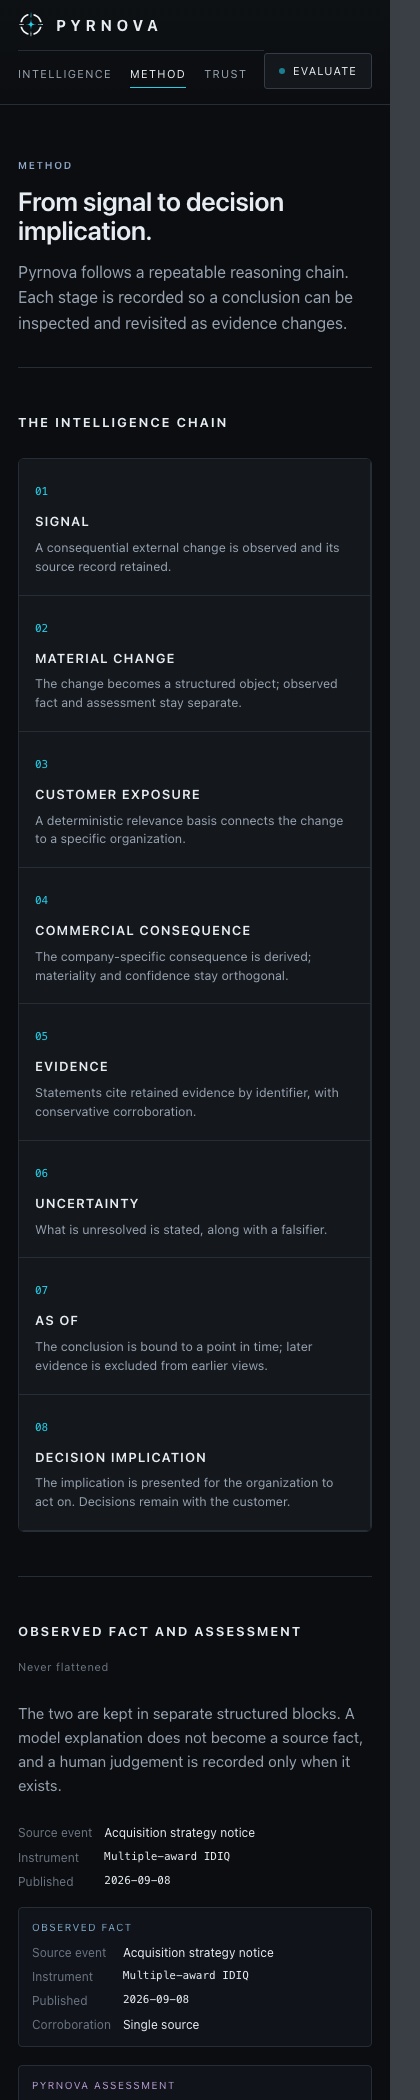
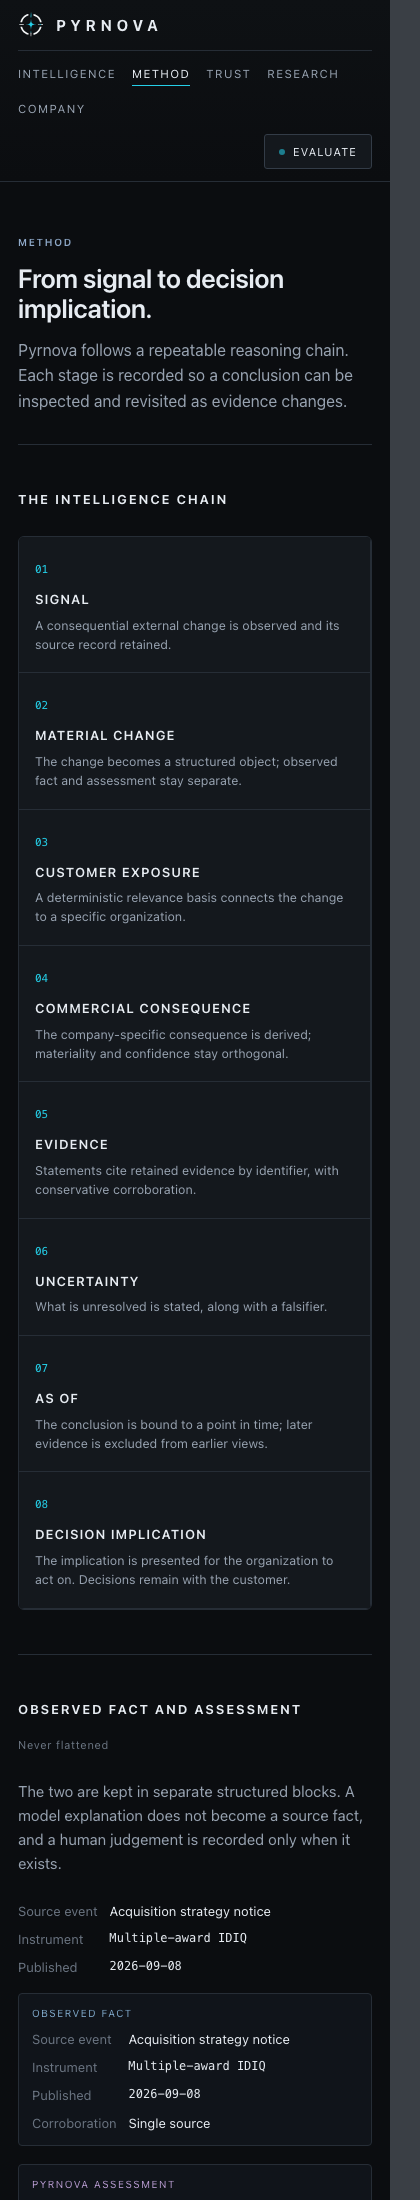
polish(website-go): Revision B final polish pass (bounded refinements)
Narrow finishing pass on the conditionally-accepted Revision B baseline (9cbe0ea).
No redesign; all locked Revision B elements preserved.

- Mobile readability: narrow-screen typography block nudges specimen metadata,
  chips, dates and secondary text up 1-2px with more specimen padding; density
  and product grammar preserved.
- Mobile navigation: wrapping module strip replaces the horizontal-scroll strip
  so all five section routes plus EVALUATE are visible at 390px. No SaaS drawer.
- State 1 CTA semantics: primary button copy is now "See how evaluation works"
  (home hero + closing); closing heading reworded to "An evaluation tests ...".
  EVALUATE retained as nav/section label for a future OUTREACH READY state.
  New test rejects CTA copy implying active submission.
- Home hero hierarchy: second line "Know what it changes." set to full --ink so
  it no longer reads as disabled.
- Public terminology: NIGHTGLASS removed from public specimen labels and footer
  (not established canonical public terminology); SYNTHETIC SPECIMEN retained;
  no replacement invented. Test asserts NIGHTGLASS absent.
- Fixed an ~8px hero telemetry-field bleed so page scroll width equals viewport
  at 390/500/1440 (no horizontal overflow); field appearance unchanged.

State 1 intact (no forms/inputs/JS/collection/mailto/tel/booking). Zero em dash.
14/14 tests pass. Verified in real browser at 1440px and true 390px.
Isolated on website-go-001; product code and Live Ops soak untouched.
[…]

diff --git a/website-go/assets/site.css b/website-go/assets/site.css
@@ -123,6 +123,7 @@ main { max-width: var(--max); margin: 0 auto; padding: 0 26px; }
 /* ---------- hero / product theatre ---------- */
 .hero {
   position: relative;
+  overflow: hidden; /* clip the decorative telemetry field so its bleed never causes page overflow */
   display: grid;
   grid-template-columns: minmax(0, 0.92fr) minmax(0, 1.08fr);
   gap: 48px;
@@ -142,7 +143,7 @@ main { max-width: var(--max); margin: 0 auto; padding: 0 26px; }
   font-size: clamp(2.1rem, 3.4vw, 3.15rem); line-height: 1.08; letter-spacing: -0.02em;
   font-weight: 600; max-width: 15ch;
 }
-.hero h1 .l2 { color: var(--ink-dim); }
+.hero h1 .l2 { color: var(--ink); }
 .hero .lead {
   color: var(--ink-dim); font-size: 1.02rem; line-height: 1.6; margin: 22px 0 30px; max-width: 46ch;
 }
@@ -345,19 +346,39 @@ main { max-width: var(--max); margin: 0 auto; padding: 0 26px; }
   html { scroll-padding-top: 128px; }
   .masthead { flex-wrap: wrap; gap: 12px 18px; padding: 12px 18px; }
   .brand .module { display: none; }
-  .nav-wrap { order: 3; width: 100%; margin-left: 0; gap: 0; }
-  nav.primary {
-    width: 100%; gap: 18px; overflow-x: auto; padding-bottom: 4px;
-    -webkit-overflow-scrolling: touch; scrollbar-width: none;
-    border-top: 1px solid var(--line); padding-top: 10px;
-  }
-  nav.primary::-webkit-scrollbar { display: none; }
+  /* All routes visible: wrap the module strip instead of hiding routes in a scroller. */
+  .nav-wrap { order: 3; width: 100%; margin-left: 0; flex-wrap: wrap; gap: 12px 16px;
+    border-top: 1px solid var(--line); padding-top: 12px; }
+  nav.primary { width: auto; flex-wrap: wrap; gap: 12px 16px; }
+  nav.primary a { padding: 2px 0; font-size: 11.5px; }
   .nav-cta { margin-left: auto; }
   main { padding: 0 18px; }
   .section { padding: 44px 0; }
   .grid-2, .grid-3, .split { grid-template-columns: 1fr; }
   .chain { grid-template-columns: 1fr; }
   .signal-trace { display: none; }
+  /* Narrow-screen readability: nudge the smallest product metadata up 1-2px and give the
+     specimen more room, without inflating the headline or losing information density. */
+  .spec-body { padding: 16px 16px 18px; }
+  .spec .headline { font-size: 16.5px; }
+  .spec-caption { font-size: 10.5px; letter-spacing: 0.1em; }
+  .why-detail { font-size: 14px; }
+  .relevance-basis { font-size: 12px; }
+  .badge { font-size: 12px; }
+  .facts { gap: 7px 12px; }
+  .facts dt, .facts dd { font-size: 13px; }
+  .facts dd.mono { font-size: 12px; }
+  .evidence { font-size: 13px; }
+  .evidence .chip { font-size: 12px; padding: 3px 9px; }
+  .uncertainty { font-size: 12.5px; }
+  .spec-foot { font-size: 12.5px; }
+  .spec-foot .prov { font-size: 11.5px; }
+  .obj p { font-size: 13.5px; }
+  .result .r-meta, .result .r-right { font-size: 12.5px; }
+  .idchip { font-size: 12.5px; }
+  .hist .h-at { font-size: 12.5px; }
+  .hist .h-sum { font-size: 13.5px; }
+  .meta-rows dd { font-size: 14.5px; }
   .facts dd { text-align: left; }
   .meta-rows > div { grid-template-columns: 1fr; gap: 6px; }
   .hist .h-row { flex-direction: column; gap: 3px; }

diff --git a/docs/operations/WEBSITE_GO_EVIDENCE.md b/docs/operations/WEBSITE_GO_EVIDENCE.md
@@ -2,9 +2,11 @@
 
 **Deliverable:** Pyrnova public informational website.
 **Target state:** `WEBSITE GO / OUTREACH INTAKE DISABLED` (State 1).
-**Current revision:** B (Revision A was owner-reviewed and acceptance was withheld).
+**Current revision:** B, with final polish pass applied (Revision A acceptance was withheld;
+Revision B was conditionally accepted; this pass applies six bounded refinements).
 **Prepared:** 2026-09-15.
-**Status:** REVISION B, READY FOR OWNER REVIEW. Claude does not grant final owner acceptance.
+**Status:** REVISION B FINAL POLISH COMPLETE, READY FOR FINAL OWNER ACCEPTANCE. Claude does not
+grant final owner acceptance.
 
 State 1 means: safe to publish as an informational site; not safe to use as a public
 evaluation-intake destination. Public evaluation intake (State 2) is a separate,
@@ -13,6 +15,57 @@ separately-authorized workstream and is intentionally not built here.
 Branch `website-go-001`, isolated from the Live Ops soak (built on pinned base
 `e7cb2c98c3594166cbcb4d5691c0f370d4c5eb57`). Imports no product code; shares no runtime,
 state, secrets or configuration with `pyrnova/`, `ops/`, `var/`; never touches the soak.
+
+---
+
+## Revision B final polish pass
+
+Applied on the protected Revision B baseline `9cbe0ea`. Six bounded refinements only; no
+redesign. Every locked element (visual direction, canonical mark and wordmark, dark palette,
+cyan-as-signal, telemetry treatment, specimen prominence, product-forward first viewport,
+product UI continuity, evidence/uncertainty/provenance/AS OF grammar, page architecture, State
+1 intake-disabled state, zero em dash, trust posture) was preserved.
+
+Files changed: `website-go/src/site.mjs`, `website-go/assets/site.css`,
+`website-go/tests/site.test.mjs`, `website-go/evidence/screenshots/*`, and this record.
+
+1. **Mobile readability.** Added a narrow-screen typography block: specimen metadata bumped up
+   1 to 2px (facts labels/values 13px, monospaced values 12px, evidence chips 12px, why-detail
+   14px, badges 12px, caption 10.5px, foot 12.5px), with more specimen padding. Density and the
+   authentic product grammar preserved; the headline was not inflated. Before: 10 to 12px
+   metadata was hard to read at 390px. After: materially clearer, still dense.
+2. **Mobile navigation.** Replaced the horizontal-scroll strip (which hid RESEARCH and COMPANY)
+   with a wrapping module strip so all five section routes plus EVALUATE are visible at 390px.
+   Before: two routes were only reachable by an undiscoverable horizontal scroll. After: every
+   route is visible. Restrained language kept; no SaaS drawer or hamburger introduced.
+3. **State 1 CTA semantics.** The primary button copy changed from "Evaluate Pyrnova" to
+   "See how evaluation works" on the home hero and the closing section, and the closing heading
+   changed from "Evaluate Pyrnova against ..." to "An evaluation tests Pyrnova against ...".
+   EVALUATE is retained as the nav/section label and the evaluate page kicker (terminology kept
+   for a future OUTREACH READY state). A test now rejects any button copy implying active
+   submission. No intake, form, booking, mailto or founder-contact path was added.
+4. **Home hero hierarchy.** The second line "Know what it changes." was changed from `--ink-dim`
+   to full `--ink`, so it no longer reads as disabled or unimportant. Composition and tone
+   unchanged.
+5. **Public terminology.** NIGHTGLASS is not established canonical public terminology under
+   current authority (no supporting material exists in the repository), so it was removed from
+   specimen captions and the footer. The required `SYNTHETIC SPECIMEN` disclosure is retained.
+   No replacement terminology was invented. A test asserts NIGHTGLASS does not appear publicly.
+6. **Minor copy tightening.** The closing heading reword above is the only copy change beyond the
+   CTA wording; positioning was not touched and no generic marketing language was introduced.
+
+Additional defect fixed during verification (necessary for the required no-overflow check): the
+decorative hero telemetry field bled ~8px past the viewport, adding to page scroll width. The
+field is now clipped to the hero box (`.hero { overflow: hidden }`); measured page scroll width
+now equals the viewport at 390, 500 and 1440 (no horizontal page overflow). The field's
+appearance is unchanged.
+
+Verification: `npm run build` PASS; `npm test` 14/14 PASS (adds State 1 CTA-semantics and
+NIGHTGLASS-absence checks); em dash count 0 across source and `dist/`; all seven routes
+re-rendered at 1440px and true 390px; no horizontal overflow; specimens remain credible and
+clearly synthetic; all routes discoverable on mobile; CTA represents State 1; no intake or data
+collection introduced; no product code or Live Ops soak touched. Screenshots refreshed in
+`website-go/evidence/screenshots/`.
 
 ---
 
